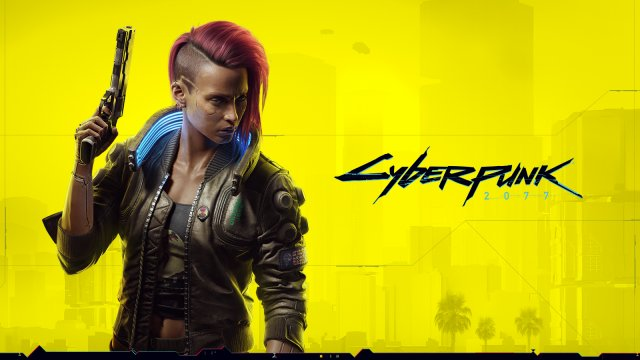
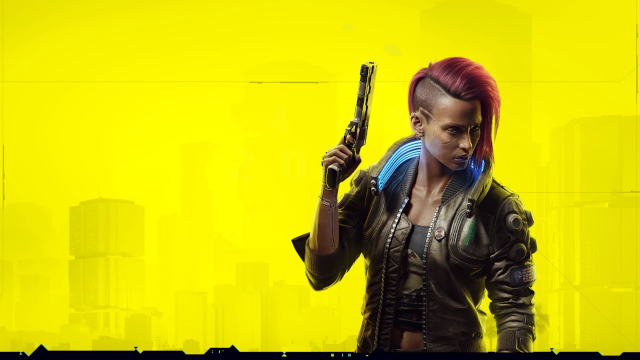
v0.1.0 Game Store and Registry Support
-Can now detect installations via the EGS
-The Registry is now the preferred method for detecting GoG
-GoG installs now launch using the GoG launcher to enable achievements, friend notifications, and time tracking. Launch separately from Vortex if you do not want to go through the launcher.
-Updated Imagery

diff --git a/index.js b/index.js
@@ -1,43 +1,66 @@
-//Import some assets from Vortex we'll need.
 const path = require('path');
+const { fs, log, util } = require('vortex-api');
+const winapi = require('winapi-bindings');
 // Nexus Mods domain for the game. e.g. nexusmods.com/bloodstainedritualofthenight
 const GAME_ID = 'cyberpunk2077';
 //Steam Application ID, you can get this from https://steamdb.info/apps/
 const STEAMAPP_ID = '1091500';
 //GOG Application ID, you can get this from https://www.gogdb.org/
 const GOGAPP_ID = '1423049311';
-const { fs, log, util } = require('vortex-api');
+//Epic Application ID
+const EPICAPP_ID = 'Ginger';
 
 function main(context) {
-	//This is the main function Vortex will run when detecting the game extension. 
+  //This is the main function Vortex will run when detecting the game extension. 
 	context.registerGame({
         id: GAME_ID,
         name: 'Cyberpunk 2077',
         mergeMods: true,
         queryPath: findGame,
-        supportedTools: [],
         queryModPath: () => '',
         logo: 'gameart.jpg',
         executable: () => 'bin/x64/Cyberpunk2077.exe',
         requiredFiles: [
           'bin/x64/Cyberpunk2077.exe'
         ],
-        setup: undefined,
+        supportedTools: [],
+        requiresLauncher: requiresGoGLauncher,
+        setup: prepareForModding,
         environment: {
-          SteamAPPId: STEAMAPP_ID,
+          SteamAPPId: STEAMAPP_ID
         },
         details: {
           steamAppId: STEAMAPP_ID,
           gogAppId: GOGAPP_ID,
-        },
+          epicAppId: EPICAPP_ID
+        }
       });
 
     return true
 }
 
 function findGame() {
-    return util.GameStoreHelper.findByAppId([STEAMAPP_ID, GOGAPP_ID])
-        .then(game => game.gamePath);
+  try {
+    const instPath = winapi.RegGetValue(
+      'HKEY_LOCAL_MACHINE',
+      'SOFTWARE\\WOW6432Node\\GOG.com\\Games\\' + GOGAPP_ID,
+      'PATH');
+    if (!instPath) {
+      throw new Error('empty registry key');
+    }
+    console.log("Install Path: " + instPath.value)
+    return Promise.resolve(instPath.value);
+  } catch (err) {
+    return util.GameStoreHelper.findByAppId([STEAMAPP_ID,GOGAPP_ID,EPICAPP_ID])
+      .then(game => game.gamePath);
+  }    
+}
+
+function requiresGoGLauncher() {
+  return util.GameStoreHelper.isGameInstalled(GOGAPP_ID, 'gog')
+    .then(gog => gog
+      ? { launcher: 'gog', addInfo: GOGAPP_ID }
+      : undefined);
 }
 
 function prepareForModding(discovery) {
